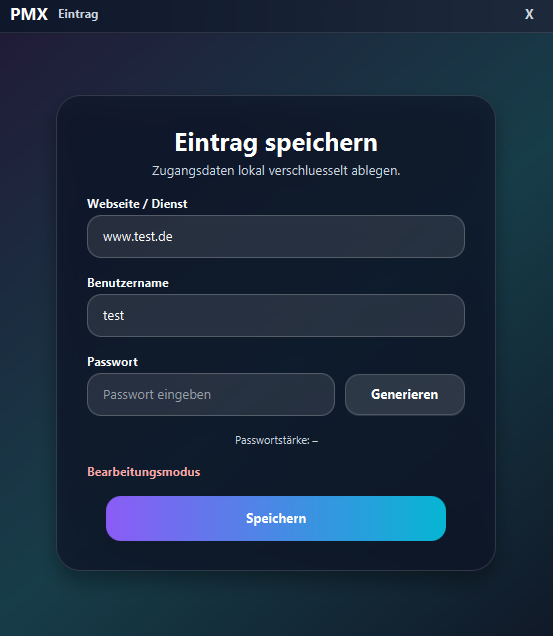
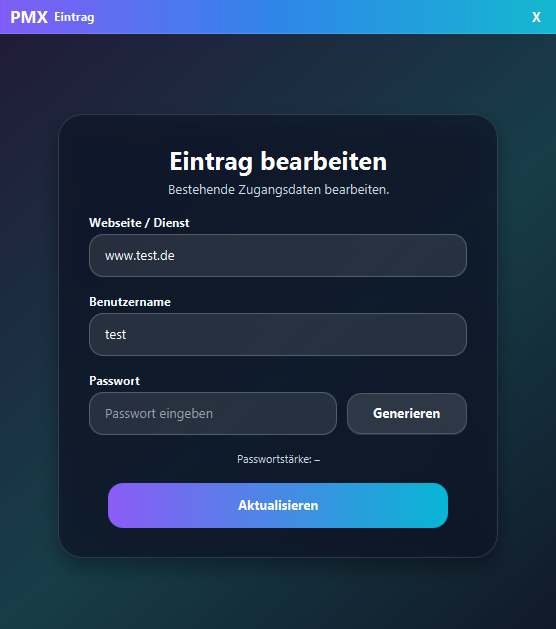
Polish PMX UI and update README

diff --git a/src/main/resources/styles.css b/src/main/resources/styles.css
@@ -551,3 +551,50 @@
 .primary-button {
     -fx-min-height: 44;
 }
+/* Step 16: PMX-Titelleiste mit Verlauf */
+.title-bar {
+    -fx-background-color: linear-gradient(to right, #815cf6, #2f86e9, #14b8cf);
+    -fx-border-color: rgba(255, 255, 255, 0.14);
+    -fx-border-width: 0 0 1 0;
+    -fx-padding: 0 12 0 12;
+    -fx-min-height: 34;
+    -fx-pref-height: 34;
+    -fx-max-height: 34;
+}
+
+.titlebar-logo,
+.titlebar-window-title {
+    -fx-text-fill: white;
+}
+
+.titlebar-button,
+.titlebar-close-button {
+    -fx-background-color: transparent;
+    -fx-text-fill: white;
+    -fx-font-weight: 800;
+    -fx-background-radius: 8;
+    -fx-min-width: 34;
+    -fx-min-height: 26;
+    -fx-cursor: hand;
+}
+
+.titlebar-button:hover,
+.titlebar-close-button:hover {
+    -fx-background-color: rgba(255, 255, 255, 0.18);
+}
+/* Step 18: kompakte Fensterbuttons */
+.title-bar {
+    -fx-spacing: 6;
+    -fx-padding: 0 8 0 12;
+}
+
+.titlebar-button,
+.titlebar-close-button {
+    -fx-min-width: 28;
+    -fx-pref-width: 28;
+    -fx-max-width: 28;
+    -fx-min-height: 24;
+    -fx-pref-height: 24;
+    -fx-max-height: 24;
+    -fx-padding: 0;
+}

diff --git a/src/main/java/controller/AddEntryController.java b/src/main/java/controller/AddEntryController.java
@@ -6,7 +6,8 @@ import app.AppState;
 
 // JavaFX: FXML & UI
 import javafx.fxml.FXML;                   // @FXML-Bindings aus der FXML
-import javafx.scene.control.Label;         // Textausgabe
+import javafx.scene.control.Label;
+import javafx.scene.control.Button;         // Textausgabe
 import javafx.scene.control.PasswordField; // Passworteingabe
 import javafx.scene.control.TextField;     // Texteingabe
 import javafx.scene.paint.Color;           // Label-Farben
@@ -28,7 +29,9 @@ public class AddEntryController {
     @FXML private PasswordField passwordField;  // Passwort
     @FXML private Label messageLabel;           // Status-/Fehlermeldungen
     @FXML private Label strengthLabel;          // Anzeige der Passwortstärke
-
+    @FXML private Label dialogTitleLabel;       // Dialogtitel
+    @FXML private Label dialogSubtitleLabel;    // Dialoguntertitel
+    @FXML private Button saveButton;            // Speichern/Aktualisieren-Button
     private VaultController vaultController;    // Referenz zum VaultController
 
     // Bearbeitungsmodus
@@ -49,6 +52,7 @@ public class AddEntryController {
                     -> updateStrength(newVal));
             updateStrength(passwordField.getText());
         }
+        hideMessage();
     }
 
     // Eintrag in Bearbeitungsmodus laden
@@ -61,8 +65,17 @@ public class AddEntryController {
         usernameField.setText(entry.getUsername());
         passwordField.clear(); // Sicherheit: Passwort nie vorausfüllen
 
-        messageLabel.setText("Bearbeitungsmodus");
-        messageLabel.setTextFill(Color.DARKBLUE);
+        if (dialogTitleLabel != null) {
+            dialogTitleLabel.setText("Eintrag bearbeiten");
+        }
+        if (dialogSubtitleLabel != null) {
+            dialogSubtitleLabel.setText("Bestehende Zugangsdaten bearbeiten.");
+        }
+        if (saveButton != null) {
+            saveButton.setText("Aktualisieren");
+        }
+
+        hideMessage();
         updateStrength(passwordField.getText());
     }
 
@@ -163,16 +176,31 @@ public class AddEntryController {
         strengthLabel.setTextFill(color);
     }
 
+    private void hideMessage() {
+        if (messageLabel != null) {
+            messageLabel.setText("");
+            messageLabel.setVisible(false);
+            messageLabel.setManaged(false);
+        }
+    }
+
+    private void showMessage(String msg, Color color) {
+        if (messageLabel != null) {
+            messageLabel.setText(msg);
+            messageLabel.setTextFill(color);
+            messageLabel.setVisible(true);
+            messageLabel.setManaged(true);
+        }
+    }
+
     // Erfolgsmeldung
     private void ok(String msg) {
-        messageLabel.setText(msg);
-        messageLabel.setTextFill(Color.GREEN);
+        showMessage(msg, Color.GREEN);
     }
 
     // Fehlermeldung
     private void fail(String msg) {
-        messageLabel.setText(msg);
-        messageLabel.setTextFill(Color.RED);
+        showMessage(msg, Color.RED);
     }
 
     // Trim null-sicher

diff --git a/README.md b/README.md
@@ -1,24 +1,54 @@
 # PMX - Lokaler Passwortmanager
 
-Ein lokaler Offline-Passwortmanager, entwickelt mit **Java**, **JavaFX**, **SQLite** und **NitriteDB**.
+**PMX** ist ein lokaler Offline-Passwortmanager als JavaFX-Desktopanwendung.  
+Das Projekt zeigt eine vollständige Benutzeroberfläche mit Login, Tresoransicht, Eintragsverwaltung, Passwortgenerator und lokaler Verschlüsselung.
 
 > **Hinweis:** Dieses Repository ist ein Demo- und Bewerbungsprojekt. Es enthält keine produktiven Benutzerdaten, keine echten Zugangsdaten und keine sensiblen lokalen Datenbanken.
 
-## Überblick
+## Projektfokus
 
-PMX wurde im Rahmen meiner Umschulung zum **Fachinformatiker für Anwendungsentwicklung** entwickelt.
+- Lokale Desktop-Anwendung ohne Cloud-Synchronisierung
+- Moderne JavaFX-Oberfläche mit dunklem PMX-Design
+- Verschlüsselte Speicherung sensibler Zugangsdaten
+- Benutzerregistrierung, Login und Recovery-Funktion
+- Übersichtliche Tresoransicht mit Suche, Bearbeiten- und Löschfunktion
+- Sicherheitsbewusster Aufbau mit Master Passwort, Schlüsselableitung und AES-GCM-Verschlüsselung
 
-Ziel war die Umsetzung eines lokalen Passwortmanagers mit Fokus auf **Sicherheit**, **Offline-Betrieb** und **klarer Benutzerführung**. Die Anwendung speichert Zugangsdaten lokal, verschlüsselt sensible Daten und verzichtet bewusst auf Cloud-Synchronisierung.
+## Screenshots
+
+### Login
+
+<p>
+  <img src="docs/screenshots/login.png" alt="PMX Login" width="420">
+</p>
+
+### Tresor
+
+<p>
+  <img src="docs/screenshots/vault.png" alt="PMX Tresoransicht" width="760">
+</p>
+
+### Einträge verwalten
+
+<p>
+  <img src="docs/screenshots/add-entry.png" alt="Neuen Eintrag hinzufügen" width="420">
+  <img src="docs/screenshots/edit-entry.png" alt="Eintrag bearbeiten" width="420">
+</p>
+
+### Löschen Dialog
+
+<p>
+  <img src="docs/screenshots/delete-dialog.png" alt="Eintrag löschen" width="460">
+</p>
 
 ## Funktionen
 
-- Benutzerregistrierung und Login
-- Lokale, verschlüsselte Speicherung von Zugangsdaten
-- Passwortgenerator
-- Recovery-Funktion
-- Übersichtliche Tresoransicht für gespeicherte Einträge
-- Suche nach Website oder Benutzername
-- Einträge hinzufügen, bearbeiten und löschen
+- Benutzer anlegen und anmelden
+- Zugangsdaten lokal speichern
+- Einträge suchen, hinzufügen, bearbeiten und löschen
+- Passwortgenerator für neue Zugangsdaten
+- Recovery-Funktion für das Zurücksetzen des Master Passworts
+- Getrennte Speicherung von Benutzer- und Tresordaten
 
 ## Technologien
 
@@ -34,73 +64,46 @@ Ziel war die Umsetzung eines lokalen Passwortmanagers mit Fokus auf **Sicherheit
 - **AES-256-GCM** zur Verschlüsselung sensibler Daten
 - **PBKDF2-HMAC-SHA-256** zur Schlüsselableitung
 - Trennung von Benutzerverwaltung und Tresordaten
-- Keine Speicherung produktiver Daten im Repository
+- Keine produktiven Daten im Repository
 - Lokaler Betrieb ohne externe Synchronisierung
 
 ## Projekt lokal starten
 
 ### Voraussetzungen
 
-- Java 17
+- Java 17 oder neuer
 - Maven
 - IntelliJ IDEA oder eine andere Java-IDE
 
 ### Start
 
-1. Repository klonen:
-
-   ```bash
-   git clone https://github.com/n-somas/pmx-password-manager.git
-   ```
-
-2. In den Projektordner wechseln:
-
-   ```bash
-   cd pmx-password-manager
-   ```
-
-3. Maven-Abhängigkeiten laden:
-
-   ```bash
-   mvn clean install
-   ```
-
-4. Anwendung starten:
-
-   ```bash
-   mvn javafx:run
-   ```
-
-### Tests ausführen
+Repository klonen:
 
 ```bash
-mvn test
+git clone https://github.com/n-somas/pmx-password-manager.git
 ```
 
-## Screenshots
+In den Projektordner wechseln:
 
-### Login und Tresor
+```bash
+cd pmx-password-manager
+```
 
-<p>
-  <img src="docs/screenshots/login.png" alt="Login" width="360">
-</p>
+Abhängigkeiten laden und Tests ausführen:
 
-<p>
-  <img src="docs/screenshots/vault.png" alt="Tresor" width="700">
-</p>
+```bash
+mvn clean test
+```
 
-### Einträge verwalten
+Anwendung starten:
 
-<p>
-  <img src="docs/screenshots/add-entry.png" alt="Eintrag hinzufügen" width="360">
-  <img src="docs/screenshots/edit-entry.png" alt="Eintrag bearbeiten" width="360">
-</p>
+```bash
+mvn javafx:run
+```
 
-### Löschen-Dialog
+## Projektstatus
 
-<p>
-  <img src="docs/screenshots/delete-dialog.png" alt="Löschen-Dialog" width="420">
-</p>
+PMX ist ein Bewerbungs- und Lernprojekt mit Fokus auf Java, JavaFX, lokaler Datenhaltung, Verschlüsselung und sauberer Benutzerführung.
 
 ## Autor
 